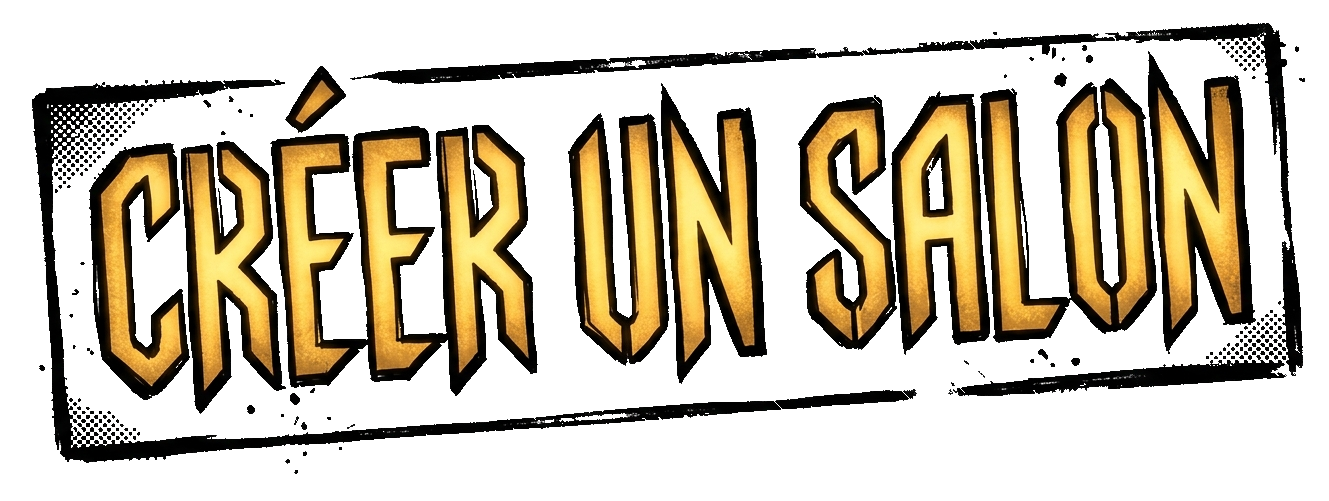
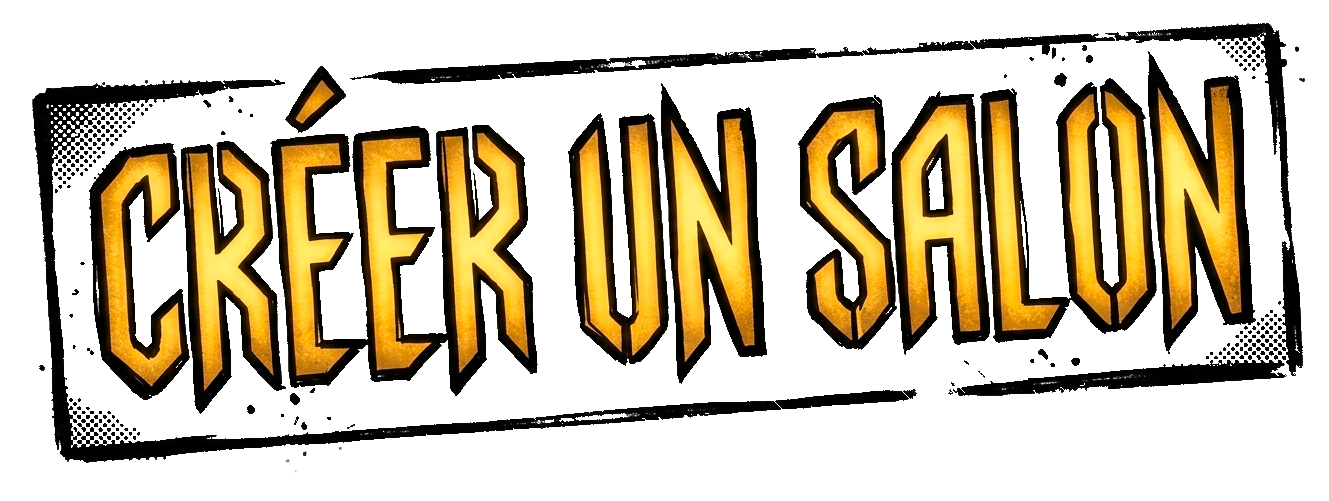
Titres de menu : le détourage Photoshop d'Adrien, passé au nettoyage
Adrien a re-détouré quatorze titres à la main dans Photoshop (tous sauf
titre_amical_local). Comparés à l'œil sur fond sombre, agrandis 4 fois :
son découpage atténue l'anneau pointillé du damier d'origine, mais le laisse
en gris autour du cerne d'encre — il ressortirait en pointillé sur le noir du
jeu. Son choix : garder son découpage et le passer à tools/detourer_titres.py,
qui ne retire que l'anneau restant.

Ce commit remplace donc les versions nettoyées par le seul script (livrées
dans 828efa6) par Photoshop + script, pour les quatorze. titre_amical_local
garde la version nettoyée par script.

Changed region(s): [[0.4319, 0.1796, 0.9564, 0.6886], [0.0617, 0.2695, 0.4011, 0.7784], [0.216, 0.1796, 0.2468, 0.2395]]

diff --git a/docs/ROADMAP.md b/docs/ROADMAP.md
@@ -3226,6 +3226,15 @@ suite `test_menus_finitions` mesure la part blanc-grise de chaque contour.
 `python3 tools/detourer_titres.py assets/ui/titres/titre_xxx.png` (PIL seul,
 réécrit le fichier en place — garder l'original à côté).
 
+**Même soir : Adrien a re-détouré quatorze titres à la main, dans Photoshop**
+(tous sauf `titre_amical_local`). Comparé à l'œil sur fond sombre, agrandi
+quatre fois, son découpage atténuait l'anneau pointillé mais le laissait en
+gris autour du cerne — un pointillé sur le noir du jeu. Son choix : garder son
+découpage ET le passer au script, qui ne retire que l'anneau restant. Main porte
+donc Photoshop + script pour les quatorze, et le script seul pour
+`titre_amical_local`. **Un détourage à la main n'exempte pas du passage au
+script** : les deux se complètent, l'un décide de la forme, l'autre du damier.
+
 ### Deux fichiers du même nom : l'extraction par nom a menti (2026-09-10)
 
 Pour mesurer les sprites d'un commit d'une autre session, je les ai extraits dans
